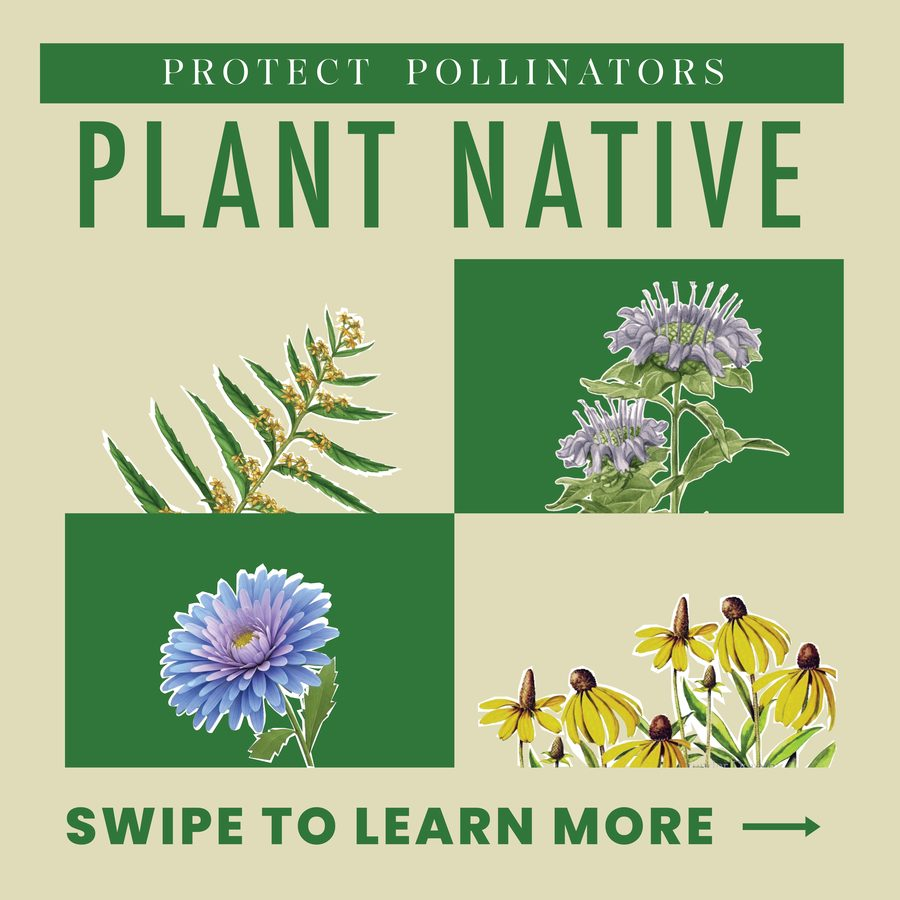
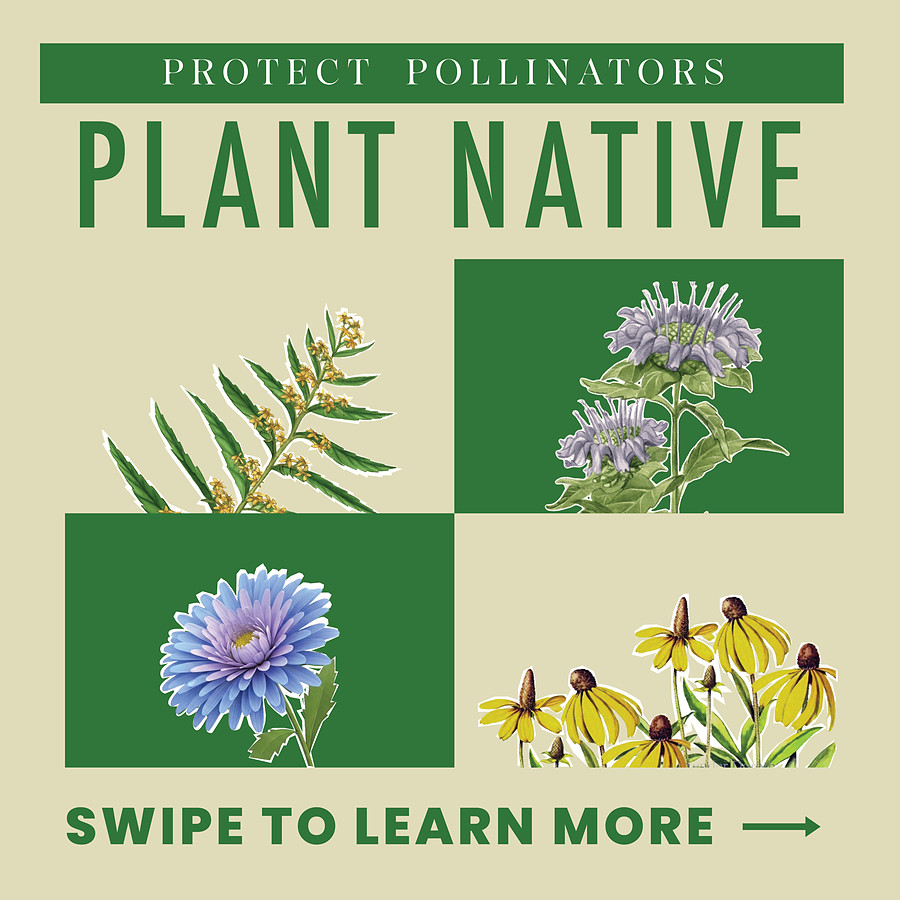
Carousel slides: sharper exports from the originals, click to read full size

diff --git a/pollinators.html b/pollinators.html
@@ -254,10 +254,10 @@
         <img src="assets/pollinators/carousel-mockup.jpg" alt="The four carousel slides shown in an Instagram feed on a phone" loading="lazy" width="2000" height="1144">
       </figure>
       <ul class="slides">
-        <li><img src="assets/pollinators/carousel-1.jpg" alt="Slide 1: Protect Pollinators, Plant Native, swipe to learn more" loading="lazy" width="900" height="900"></li>
-        <li><img src="assets/pollinators/carousel-2.jpg" alt="Slide 2: 22% of native pollinators in North America are at an elevated risk of extinction" loading="lazy" width="900" height="900"></li>
-        <li><img src="assets/pollinators/carousel-3.jpg" alt="Slide 3: Protect pollinators by planting native and reducing pesticide use" loading="lazy" width="900" height="900"></li>
-        <li><img src="assets/pollinators/carousel-4.jpg" alt="Slide 4: With Regional Roots it's not just native, it's regional, with seed packets and a QR code" loading="lazy" width="900" height="900"></li>
+        <li><button type="button" class="zoomable" data-full="assets/pollinators/carousel-1-full.jpg" aria-label="View slide 1 larger"><img src="assets/pollinators/carousel-1.jpg" alt="Slide 1: Protect Pollinators, Plant Native, swipe to learn more" loading="lazy" width="900" height="900"></button></li>
+        <li><button type="button" class="zoomable" data-full="assets/pollinators/carousel-2-full.jpg" aria-label="View slide 2 larger"><img src="assets/pollinators/carousel-2.jpg" alt="Slide 2: 22% of native pollinators in North America are at an elevated risk of extinction" loading="lazy" width="900" height="900"></button></li>
+        <li><button type="button" class="zoomable" data-full="assets/pollinators/carousel-3-full.jpg" aria-label="View slide 3 larger"><img src="assets/pollinators/carousel-3.jpg" alt="Slide 3: Protect pollinators by planting native and reducing pesticide use" loading="lazy" width="900" height="900"></button></li>
+        <li><button type="button" class="zoomable" data-full="assets/pollinators/carousel-4-full.jpg" aria-label="View slide 4 larger"><img src="assets/pollinators/carousel-4.jpg" alt="Slide 4: With Regional Roots it's not just native, it's regional, with seed packets and a QR code" loading="lazy" width="900" height="900"></button></li>
       </ul>
       <div class="prose after-steps">
         <p>After the final critique, the gradient from the second slide was pushed further and the white outline was added to every flower and to the seed packets, helping them pop off the page.</p>

diff --git a/styles.css b/styles.css
@@ -1020,3 +1020,4 @@ html, body { cursor: var(--cursor-default); }
 a, button, summary, label[for], [role="button"], select, input[type="range"], input[type="checkbox"], input[type="radio"] { cursor: var(--cursor-pointer); }
 input[type="text"], input[type="email"], textarea { cursor: text; }
 .lamp { cursor: var(--cursor-pointer); }
+.slides img { border-radius: 4px; }
